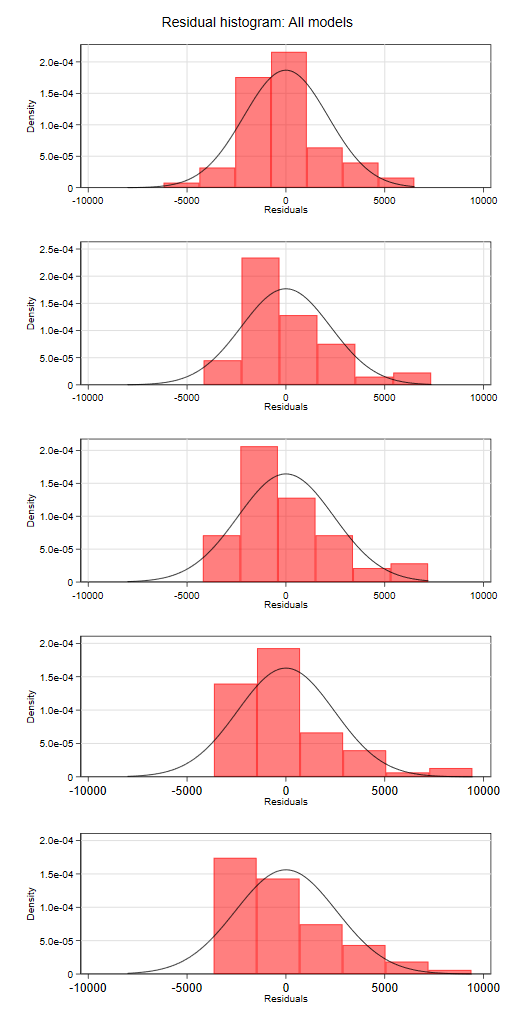
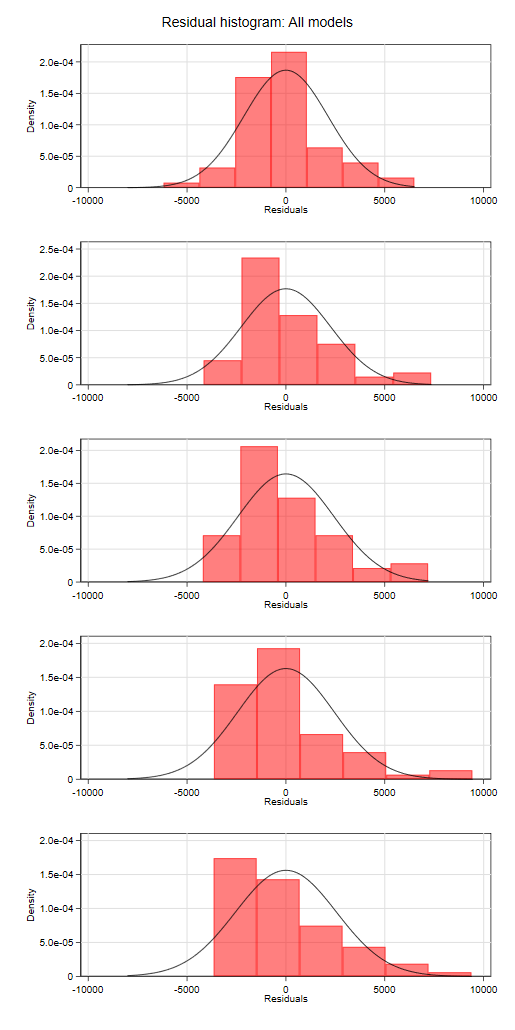
updates

diff --git a/content/econometrics/03_OLS/Section 4.md b/content/econometrics/03_OLS/Section 4.md
@@ -159,24 +159,24 @@ estout M1 M2 M3 M4 M5, title(Robustness check) ///
 quietly{
 * Residuals model 1
 twoway scatter price mpg, nodraw saving(model1_resid1, replace) ///
-               msize(small) mcolor(blue%50) ///
-               xlabel(10(5)45) ///
-               ylabel(2000(4000)16000) ytitle("Price") ///
-               xlabel(, grid labsize(small)) xtitle(, size(small)) ///
-               ylabel(, grid labsize(small)) ytitle(, size(small)) ///
+          msize(small) mcolor(blue%50) ///
+          xlabel(10(5)45) ///
+          ylabel(2000(4000)16000) ytitle("Price") ///
+          xlabel(, grid labsize(small)) xtitle(, size(small)) ///
+          ylabel(, grid labsize(small)) ytitle(, size(small)) ///
      ||scatter y_hat1 mpg, ///
-               msize(small) mcolor(red%50) ///
-               legend(label(1 "Observation") label(2 "Estimation") ///
-                      size(small) region(lstyle(none))) 
+          msize(small) mcolor(red%50) ///
+          legend(label(1 "Observation") label(2 "Estimation") ///
+                 size(small) region(lstyle(none))) 
 
 twoway scatter resid1 mpg, nodraw saving(model1_resid2, replace) ///
-               msize(small) mcolor(red%50) ///
-               xlabel(10(5)45) ///
-               ylabel(-6000(2000)6000) ///
-               ytitle("Residuals, model 1") ///
-               yline(0, lstyle(foreground)) ///
-               xlabel(, grid labsize(small)) xtitle(, size(small)) ///
-               ylabel(, grid labsize(small)) ytitle(, size(small))
+          msize(small) mcolor(red%50) ///
+          xlabel(10(5)45) ///
+          ylabel(-6000(2000)6000) ///
+          ytitle("Residuals, model 1") ///
+          yline(0, lstyle(foreground)) ///
+          xlabel(, grid labsize(small)) xtitle(, size(small)) ///
+          ylabel(, grid labsize(small)) ytitle(, size(small))
 
 histogram resid1, nodraw saving(model1_resid3, replace) ///
           start(-8000) color(red%50) normal normopts(lcolor(black%75)) ///
@@ -191,25 +191,25 @@ graph combine model1_resid1.gph model1_resid2.gph model1_resid3.gph, ///
 * Residuals model 2
 quietly{
 twoway scatter price mpg, nodraw saving(model2_resid1, replace) ///
-               msize(small) mcolor(blue%50) ///
-               xlabel(10(5)45) ///
-               ylabel(2000(4000)16000) ytitle("Price") ///
-               xlabel(, grid labsize(small)) xtitle(, size(small)) ///
-               ylabel(, grid labsize(small)) ytitle(, size(small)) ///
+          msize(small) mcolor(blue%50) ///
+          xlabel(10(5)45) ///
+          ylabel(2000(4000)16000) ytitle("Price") ///
+          xlabel(, grid labsize(small)) xtitle(, size(small)) ///
+          ylabel(, grid labsize(small)) ytitle(, size(small)) ///
      ||scatter y_hat2 mpg, ///
-               msize(small) mcolor(red%50) ///
-               legend(label(1 "Observation") label(2 "Estimation") ///
-                      size(small) region(lstyle(none)))
+          msize(small) mcolor(red%50) ///
+          legend(label(1 "Observation") label(2 "Estimation") ///
+                 size(small) region(lstyle(none)))
 
 twoway scatter resid2 mpg, nodraw saving(model2_resid2, replace) ///
-               msize(small) mcolor(red%50) ///
-               xlabel(10(5)45) ///
-               ylabel(-6000(2000)6000) ///
-               ytitle("Residuals, model 1") ///
-               yline(0, lstyle(foreground)) ///
-               xlabel(, grid labsize(small)) xtitle(, size(small)) ///
-               ylabel(, grid labsize(small)) ytitle(, size(small))
- 
+          msize(small) mcolor(red%50) ///
+          xlabel(10(5)45) ///
+          ylabel(-6000(2000)6000) ///
+          ytitle("Residuals, model 1") ///
+          yline(0, lstyle(foreground)) ///
+          xlabel(, grid labsize(small)) xtitle(, size(small)) ///
+          ylabel(, grid labsize(small)) ytitle(, size(small))
+
 histogram resid2, nodraw saving(model2_resid3, replace) ///
           start(-8000) color(red%50) normal normopts(lcolor(black%75)) ///
           xtitle(, size(small)) ytitle(, size(small)) ///
@@ -223,25 +223,25 @@ graph combine model2_resid1.gph model2_resid2.gph model2_resid3.gph, ///
 * Residuals model 3
 quietly{
 twoway scatter price mpg, nodraw saving(model3_resid1, replace) ///
-               msize(small) mcolor(blue%50) ///
-               xlabel(10(5)45) ///
-               ylabel(2000(4000)16000) ytitle("Price") ///
-               xlabel(, grid labsize(small)) xtitle(, size(small)) ///
-               ylabel(, grid labsize(small)) ytitle(, size(small)) ///
+          msize(small) mcolor(blue%50) ///
+          xlabel(10(5)45) ///
+          ylabel(2000(4000)16000) ytitle("Price") ///
+          xlabel(, grid labsize(small)) xtitle(, size(small)) ///
+          ylabel(, grid labsize(small)) ytitle(, size(small)) ///
      ||scatter y_hat3 mpg, ///
-               msize(small) mcolor(red%50) ///
-               legend(label(1 "Observation") label(2 "Estimation") ///
-                      size(small) region(lstyle(none)))
- 
+          msize(small) mcolor(red%50) ///
+          legend(label(1 "Observation") label(2 "Estimation") ///
+                 size(small) region(lstyle(none)))
+
 twoway scatter resid3 mpg, nodraw saving(model3_resid2, replace) ///
-               msize(small) mcolor(red%50) ///
-               xlabel(10(5)45) ///
-               ylabel(-6000(2000)6000) ///
-               ytitle("Residuals, model 1") ///
-               yline(0, lstyle(foreground)) ///
-               xlabel(, grid labsize(small)) xtitle(, size(small)) ///
-               ylabel(, grid labsize(small)) ytitle(, size(small))
- 
+          msize(small) mcolor(red%50) ///
+          xlabel(10(5)45) ///
+          ylabel(-6000(2000)6000) ///
+          ytitle("Residuals, model 1") ///
+          yline(0, lstyle(foreground)) ///
+          xlabel(, grid labsize(small)) xtitle(, size(small)) ///
+          ylabel(, grid labsize(small)) ytitle(, size(small))
+
 histogram resid3, nodraw saving(model3_resid3, replace) ///
           start(-8000) color(red%50) normal normopts(lcolor(black%75)) ///
           xtitle(, size(small)) ytitle(, size(small)) ///
@@ -255,30 +255,31 @@ graph combine model3_resid1.gph model3_resid2.gph model3_resid3.gph, ///
 * Residuals model 4
 quietly{
 twoway scatter price mpg, nodraw saving(model4_resid1, replace) ///
-               msize(small) mcolor(blue%50) ///
-               xlabel(10(5)45) ///
-               ylabel(2000(4000)16000) ytitle("Price") ///
-               xlabel(, grid labsize(small)) xtitle(, size(small)) ///
-               ylabel(, grid labsize(small)) ytitle(, size(small)) ///
+          msize(small) mcolor(blue%50) ///
+          xlabel(10(5)45) ///
+          ylabel(2000(4000)16000) ytitle("Price") ///
+          xlabel(, grid labsize(small)) xtitle(, size(small)) ///
+          ylabel(, grid labsize(small)) ytitle(, size(small)) ///
      ||scatter y_hat4 mpg, ///
-               msize(small) mcolor(red%50) ///
-               legend(label(1 "Observation") label(2 "Estimation") ///
-                      size(small) region(lstyle(none)))
- 
+          msize(small) mcolor(red%50) ///
+          legend(label(1 "Observation") label(2 "Estimation") ///
+                 size(small) region(lstyle(none)))
+
 twoway scatter resid4 mpg, nodraw saving(model4_resid2, replace) ///
-               msize(small) mcolor(red%50) ///
-               xlabel(10(5)45) ///
-               ylabel(-6000(2000)6000) ///
-               ytitle("Residuals, model 1") ///
-               yline(0, lstyle(foreground)) ///
-               xlabel(, grid labsize(small)) xtitle(, size(small)) ///
-               ylabel(, grid labsize(small)) ytitle(, size(small))
- 
+          msize(small) mcolor(red%50) ///
+          xlabel(10(5)45) ///
+          ylabel(-6000(2000)6000) ///
+          ytitle("Residuals, model 1") ///
+          yline(0, lstyle(foreground)) ///
+          xlabel(, grid labsize(small)) xtitle(, size(small)) ///
+          ylabel(, grid labsize(small)) ytitle(, size(small))
+
 histogram resid4, nodraw saving(model4_resid3, replace) ///
           start(-8000) color(red%50) normal normopts(lcolor(black%75)) ///
           xtitle(, size(small)) ytitle(, size(small)) ///
-          ylabel(, grid labsize(small) angle(0))
- 
+          ylabel(, grid labsize(small) angle(0)) ///
+          xlabel(, grid labsize(small))
+
 graph combine model4_resid1.gph model4_resid2.gph model4_resid3.gph, ///
               cols(1) ysize(10) title("Model 4: Residuals", size(small))
 }
@@ -286,30 +287,30 @@ graph combine model4_resid1.gph model4_resid2.gph model4_resid3.gph, ///
 * Residuals model 5
 quietly{
 twoway scatter price mpg, nodraw saving(model5_resid1, replace) ///
-               msize(small) mcolor(blue%50) ///
-               xlabel(10(5)45) ///
-               ylabel(2000(4000)16000) ytitle("Price") ///
-               xlabel(, grid labsize(small)) xtitle(, size(small)) ///
-               ylabel(, grid labsize(small)) ytitle(, size(small)) ///
+          msize(small) mcolor(blue%50) ///
+          xlabel(10(5)45) ///
+          ylabel(2000(4000)16000) ytitle("Price") ///
+          xlabel(, grid labsize(small)) xtitle(, size(small)) ///
+          ylabel(, grid labsize(small)) ytitle(, size(small)) ///
      ||scatter y_hat5 mpg, ///
-               msize(small) mcolor(red%50) ///
-               legend(label(1 "Observation") label(2 "Estimation") ///
-                      size(small) region(lstyle(none)))
+          msize(small) mcolor(red%50) ///
+          legend(label(1 "Observation") label(2 "Estimation") ///
+                 size(small) region(lstyle(none)))
 
 twoway scatter resid5 mpg, nodraw saving(model5_resid2, replace) ///
-               msize(small) mcolor(red%50) ///
-               xlabel(10(5)45) ///
-               ylabel(-6000(2000)6000) ///
-               ytitle("Residuals, model 1") ///
-               yline(0, lstyle(foreground)) ///
-               xlabel(, grid labsize(small)) xtitle(, size(small)) ///
-               ylabel(, grid labsize(small)) ytitle(, size(small))
- 
+          msize(small) mcolor(red%50) ///
+          xlabel(10(5)45) ///
+          ylabel(-6000(2000)6000) ///
+          ytitle("Residuals, model 1") ///
+          yline(0, lstyle(foreground)) ///
+          xlabel(, grid labsize(small)) xtitle(, size(small)) ///
+          ylabel(, grid labsize(small)) ytitle(, size(small))
+
 histogram resid5, nodraw saving(model5_resid3, replace) ///
           start(-8000) color(red%50) normal normopts(lcolor(black%75)) ///
           xtitle(, size(small)) ytitle(, size(small)) ///
           ylabel(, grid labsize(small) angle(0)) ///
-          ylabel(, grid labsize(small) angle(0))
+          xlabel(, grid labsize(small))
 
 graph combine model5_resid1.gph model5_resid2.gph model5_resid3.gph, ///
               cols(1) ysize(10) title("Model 5: Residuals", size(small))
@@ -322,7 +323,7 @@ twoway scatter resid1 mpg, msize(vsmall) mcolor(blue%50) ///
           ylabel(-8000(2000)8000, grid labsize(small) angle(0)) ///
           xtitle(, size(small)) ytitle(, size(small)) ///
      ||scatter resid2 mpg, msize(vsmall) mcolor(green%50) ///
-     |scatter resid3 mpg, msize(vsmall) mcolor(yellow%50) ///
+     ||scatter resid3 mpg, msize(vsmall) mcolor(yellow%50) ///
      ||scatter resid4 mpg, msize(vsmall) mcolor(teal%50) ///
      ||scatter resid5 mpg, msize(vsmall) mcolor(gray%50) ///
            legend(rows(2) size(small) region(lstyle(none)) ///
@@ -336,7 +337,7 @@ graph combine model1_resid3.gph model2_resid3.gph model3_resid3.gph ///
               model4_resid3.gph model5_resid3.gph, ///
               cols(1) ysize(20) xsize(10) ///
               title("Residual histogram: All models", size(small))
- 
+
 
 *==============================================================================*
 *|THE END|=====================================================================*
